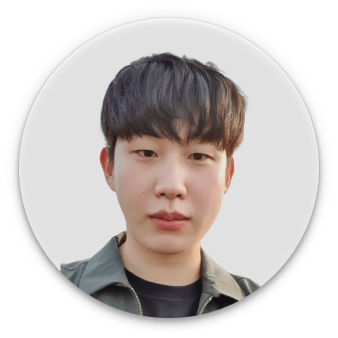
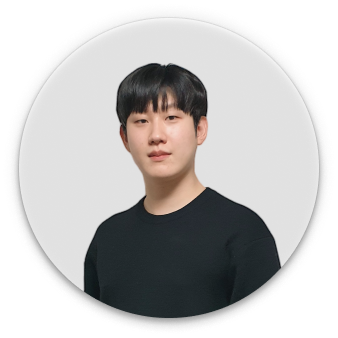
Feature/header (#7)
* feat: Add animation to header

* style: Modify typing error

* style: Change profile image

Changed region(s): [[0.1775, 0.1479, 0.8284, 0.9467]]

diff --git a/index.html b/index.html
@@ -34,7 +34,7 @@
       </div>
       <div class="header">
         <div class="header__left">
-          <div class="header__left__text">
+          <div class="header__left__text" data-aos="fade-right">
             <div class="header__left__text__hello">
               <h3>Hello, I am</h3>
             </div>
@@ -42,10 +42,10 @@
               <h2>Hyeokshin Gwon</h2>
             </div>
             <div class="header__left__text__major">
-              <h3>Sw developer<br />Computer Vision Engineer</h3>
+              <h3>Sw Developer<br />Computer Vision Engineer</h3>
             </div>
           </div>
-          <div class="header__left__btns">
+          <div class="header__left__btns" data-aos="fade-up">
             <a href="https://github.com/gwon-innovation" target="_blank">
               <img src="img/btn_header_git.png" />
             </a>
@@ -60,7 +60,7 @@
             </a>
           </div>
         </div>
-        <div class="header__right">
+        <div class="header__right" data-aos="fade-left">
           <img src="img/header_profile.png" />
         </div>
       </div>
